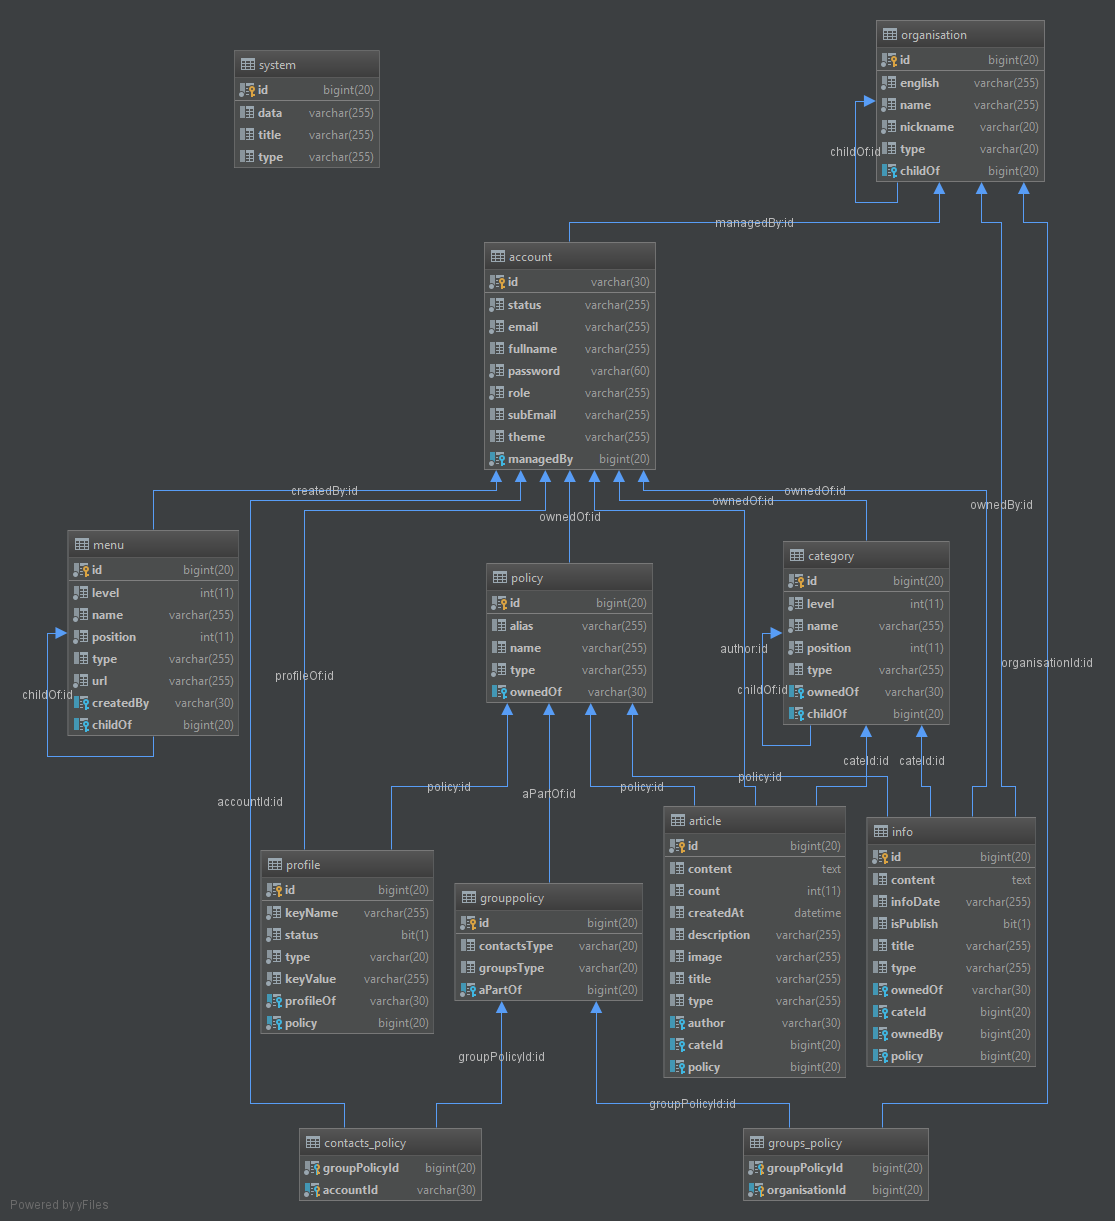
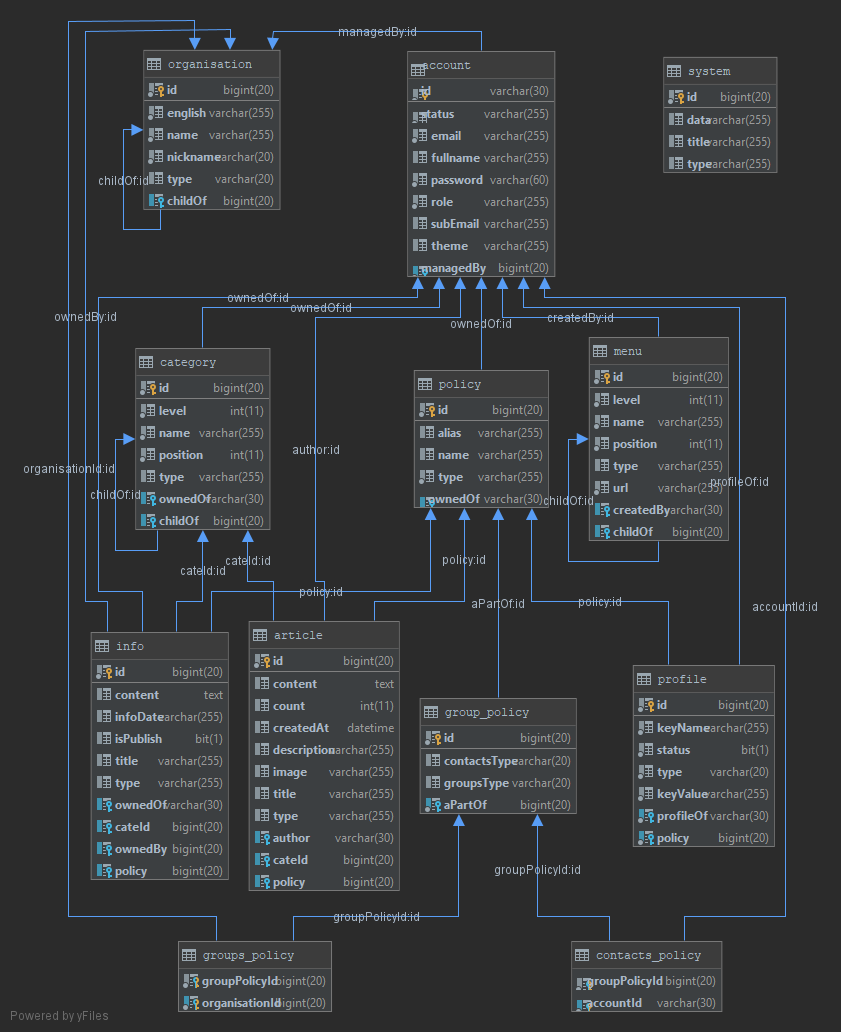
Change table name

diff --git a/DATABASE_GENERATOR/src/main/java/com/ngthuc/spsimct594/entity/GroupPolicy.java b/DATABASE_GENERATOR/src/main/java/com/ngthuc/spsimct594/entity/GroupPolicy.java
@@ -7,7 +7,7 @@ import java.util.List;
 import java.util.Set;
 
 @Entity
-@Table(name = "grouppolicy")
+@Table(name = "group_policy")
 public class GroupPolicy {
 
     @Id
